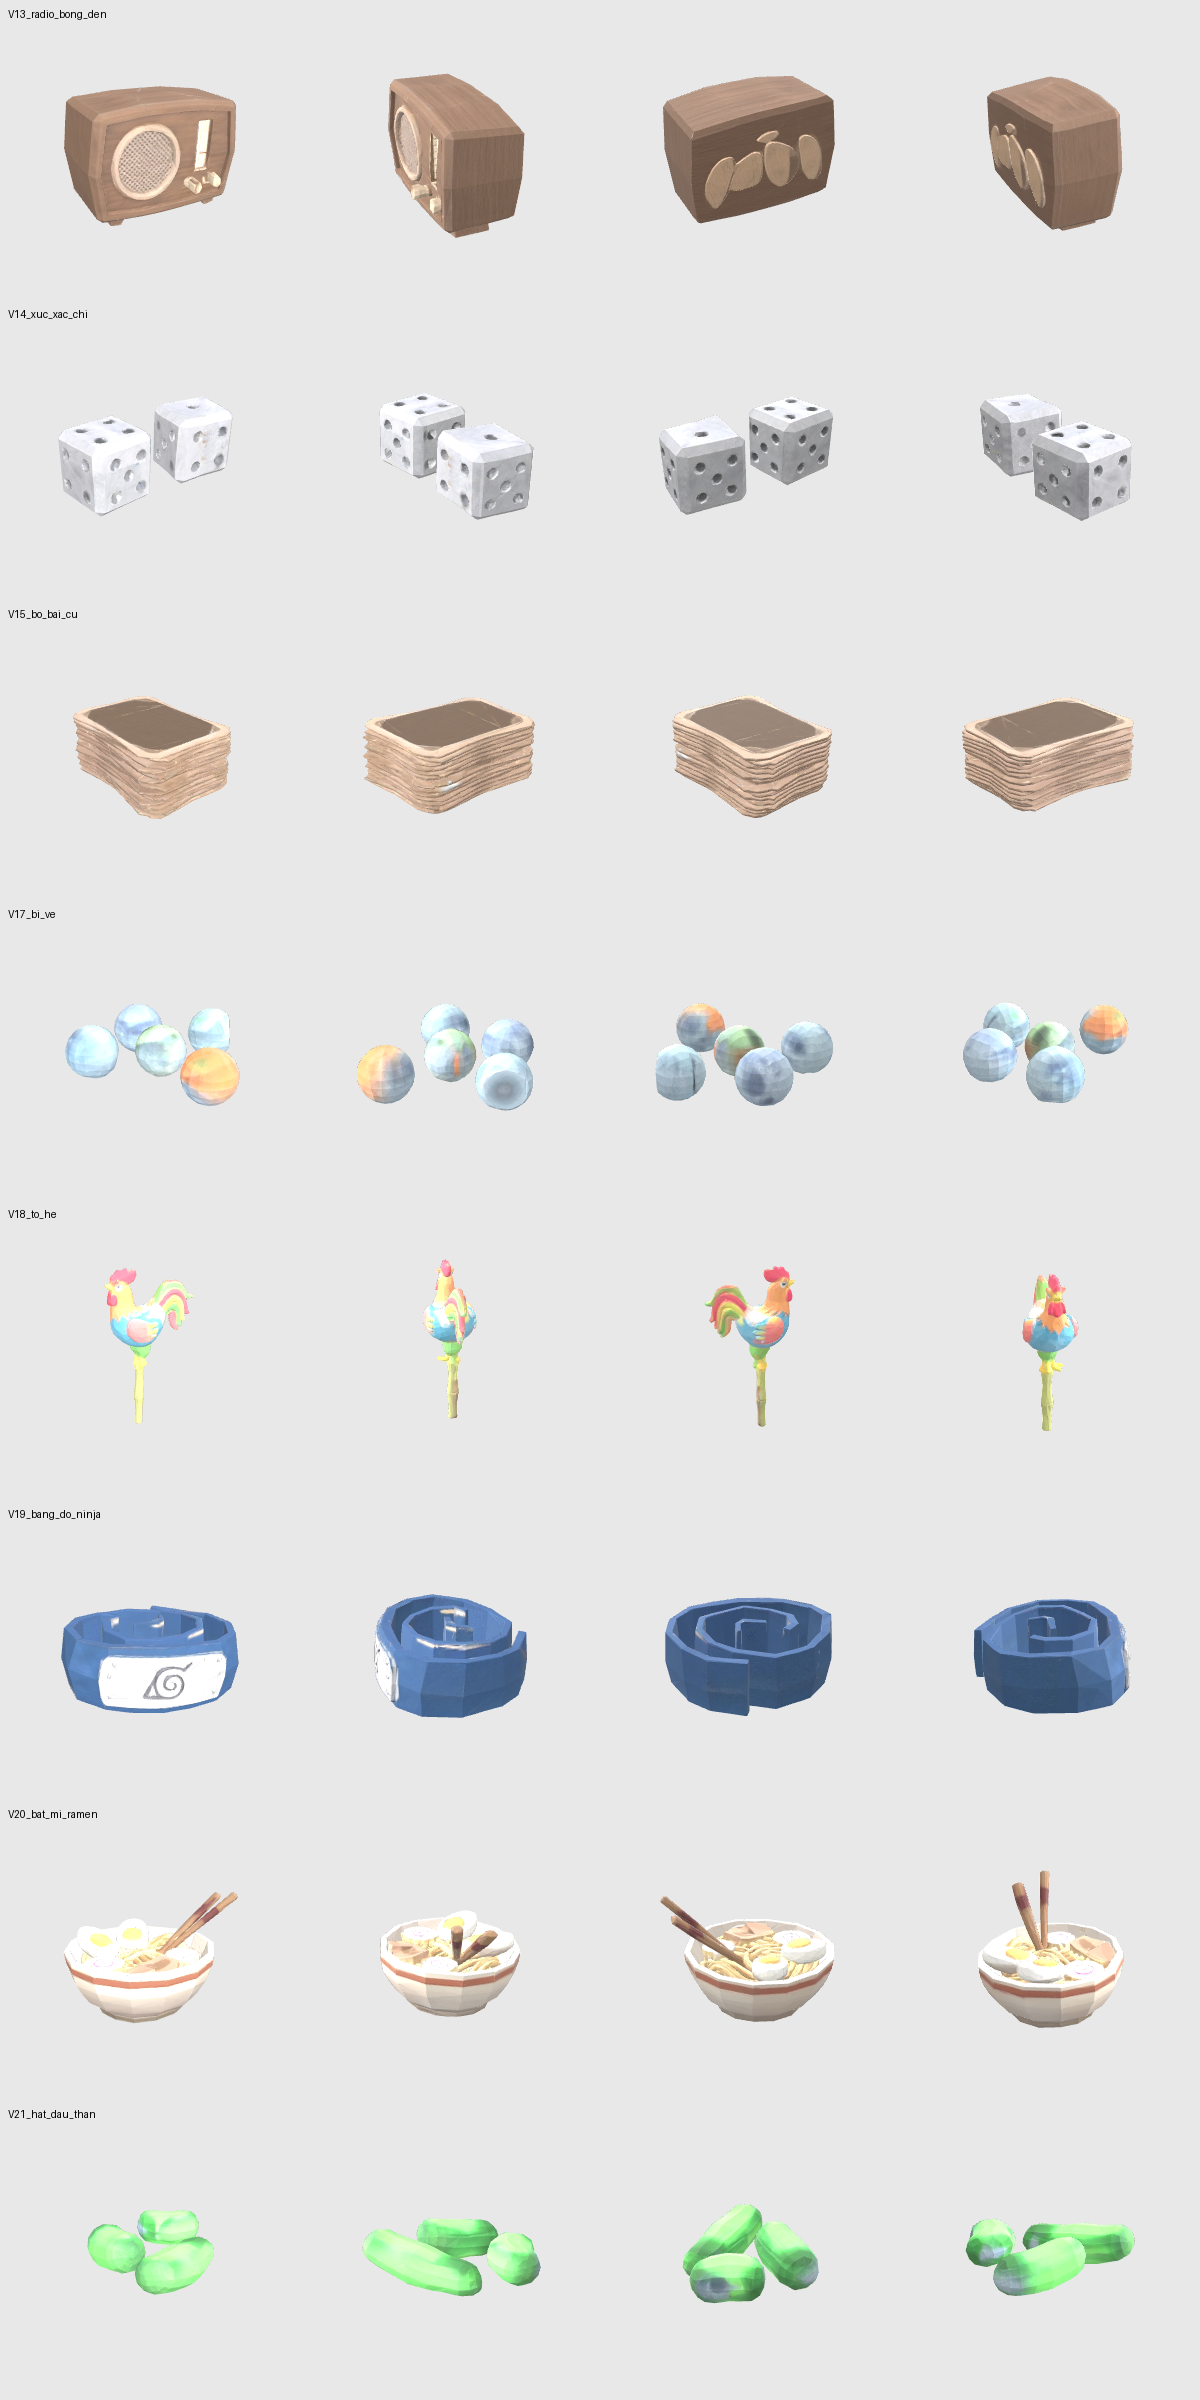
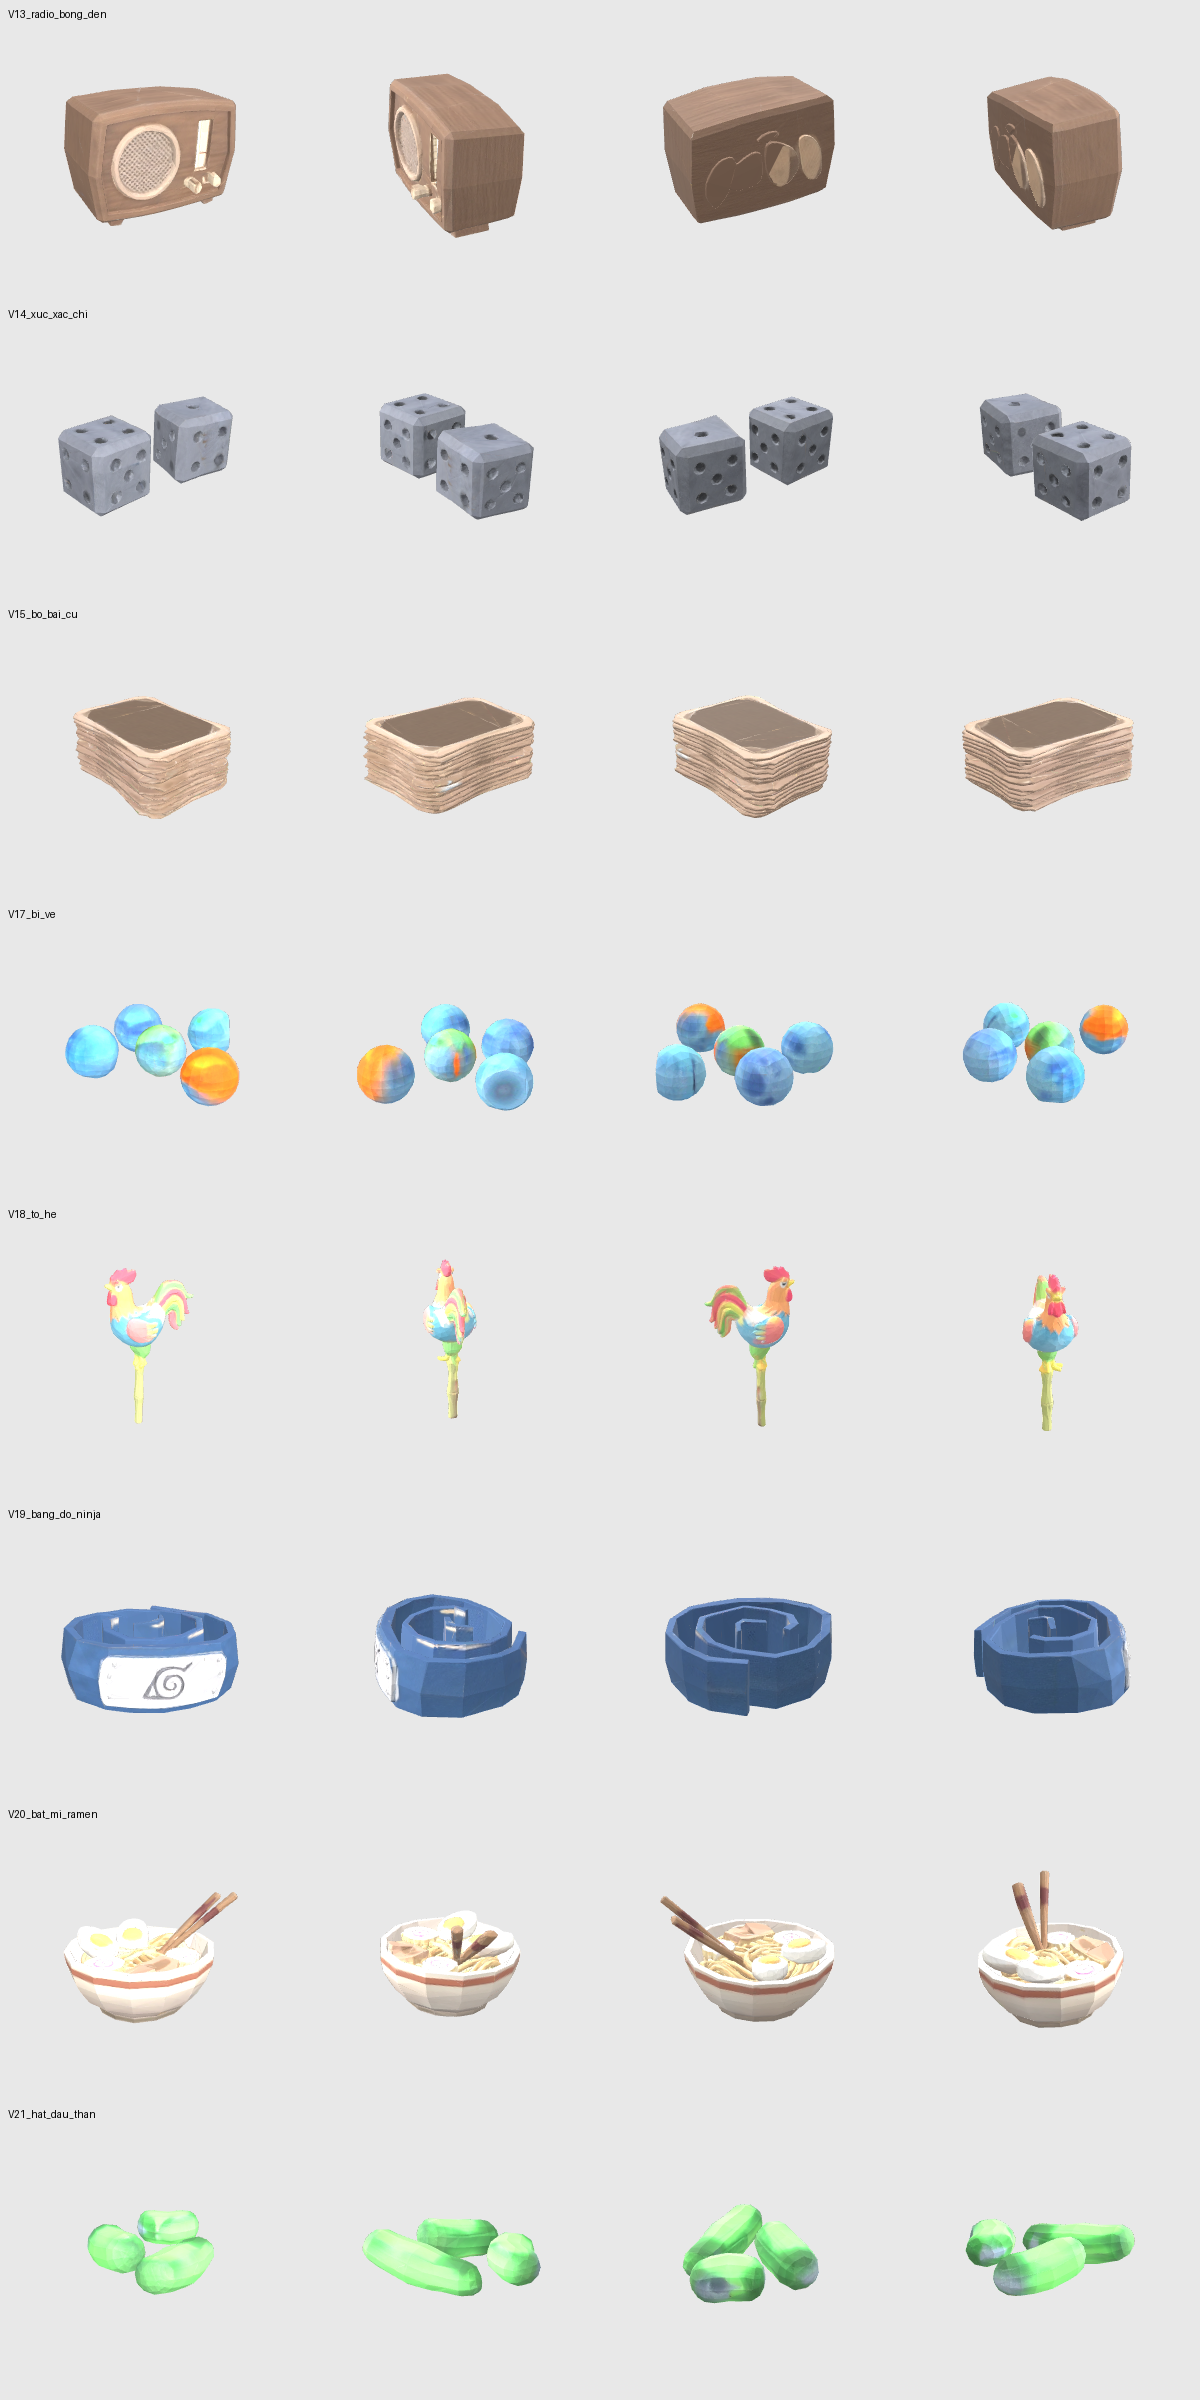
art: repaint small color issues on common items V13 V14 V17 V24 V25 V26
Claude-Session: https://claude.ai/code/session_01QKQCdazrfgwXSAQfrCh3ym

diff --git a/Tools/Meshy/retex/fix_thuong.py b/Tools/Meshy/retex/fix_thuong.py
@@ -1,0 +1,29 @@
+# To lai loi mau nho cho mon Thuong (khong ton credit).
+# Chay: python3 fix_thuong.py <ma> vao.glb ra.glb   (ma: V13 V14 V17 V24 V25 V26)
+from recolor import *
+import sys
+code,src,dst=sys.argv[1:4]
+m,tex=load(src);H,W=tex.shape[:2];P=facemasks(m,W,H)
+
+cols=np.array([face_mean(tex,p) for p in P])
+def tone(t,scale,tint=(1,1,1),contrast=1.0):
+    mu=cols.mean()  # trung binh cua rieng mon (texture la tam gop chung 8 mon)
+    t=(t-mu)*contrast+mu
+    return t*scale*np.array(tint)
+
+if code=="V13":   # radio: xoa vet num van sang mau o mat sau (-z), to mau go
+    l=cols.mean(1);z=m.triangles_center[:,2];b=m.bounds
+    back=z<b[0][2]+0.25*(b[1][2]-b[0][2]);wood=np.median(cols[back&(l<130)],0)
+    bad=np.where(back&(l>=130))[0];print("faces",len(bad),"wood",wood.round())
+    tex=paint(tex,[P[i] for i in bad],lambda px:np.tile(wood,(len(px),1)))
+elif code=="V14": # xuc xac chi: xam chi toi, hoi ngả lam
+    tex=tone(tex,0.62,(0.97,1.0,1.06),1.2)
+elif code=="V24": # tay robot thiec: xam thiec toi hon, tang tuong phan
+    tex=tone(tex,0.5,(1.0,1.0,1.04),1.5)
+elif code=="V25": # da mat trang: xam tro
+    tex=tone(tex,0.7,(1.02,1.0,0.97),1.3)
+elif code=="V26": # tui giay bac: tang tuong phan cho ra anh kim loai
+    tex=tone(tex,0.6,(1.0,1.0,1.03),2.5)
+elif code=="V17": # bi ve: tang do bao hoa
+    g=tex.mean(2,keepdims=True);tex=g+(tex-g)*3.0;tex=tex*0.9
+save(m,np.clip(tex,0,255),dst)
